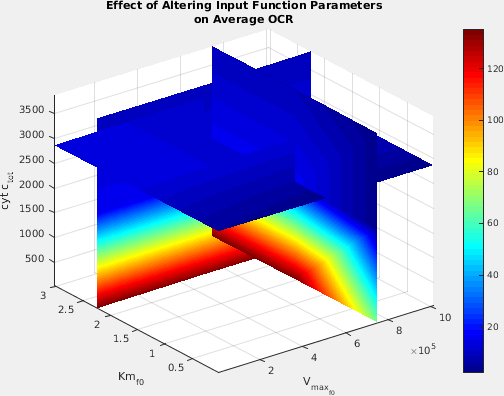
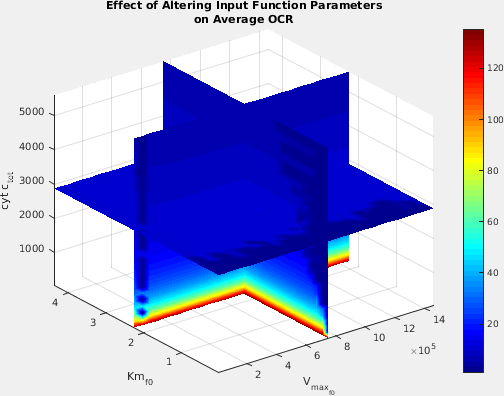
Add predictions; update code to run additional predictions and file saving

diff --git a/DeterministicModel/slicePredictions.m b/DeterministicModel/slicePredictions.m
@@ -20,7 +20,7 @@ orig_cytcred_prop = parameters.ctrlParams.cytcred ...
 
 % slice parameters
 plots = {'f0', 'fIV'};
-step_factor = 0.005;
+step_factor = 0.01;
 
 %% x, y, z = Vmax, Km, Cyt c for f0
 %% x, y, z = Vmax, Km, K for fIV
@@ -37,10 +37,14 @@ fig_names = {{'Effect of Altering Input Function Parameters', 'on Average OCR'},
     {'Effect of Altering Complex IV Function Parameters', 'on Average OCR'}};
 filenames = {['SlicePredictions/f0-Predictions-', date] ...
     ['SlicePredictions/fIV-Predictions-', date]};
+var_files = {['SlicePredictions/f0-vars-', date, '.mat'], ...
+    ['SlicePredictions/fIV-vars-', date, '.mat']};
 
 for plot_num=1:2
     
     cur_plot = plots{plot_num};
+    
+    disp(['-- Starting plot of ', cur_plot, ' --']);
     
     var_plot = vars.(cur_plot);
     
@@ -121,6 +125,9 @@ for plot_num=1:2
     colorbar;
     
     export_fig(filenames{plot_num})
+    save(var_files{plot_num}, 'fig', 'all_o2', 'xslice', 'yslice', ...
+        'zslice')
+    disp('--Finished plot--');
 end
 
 
